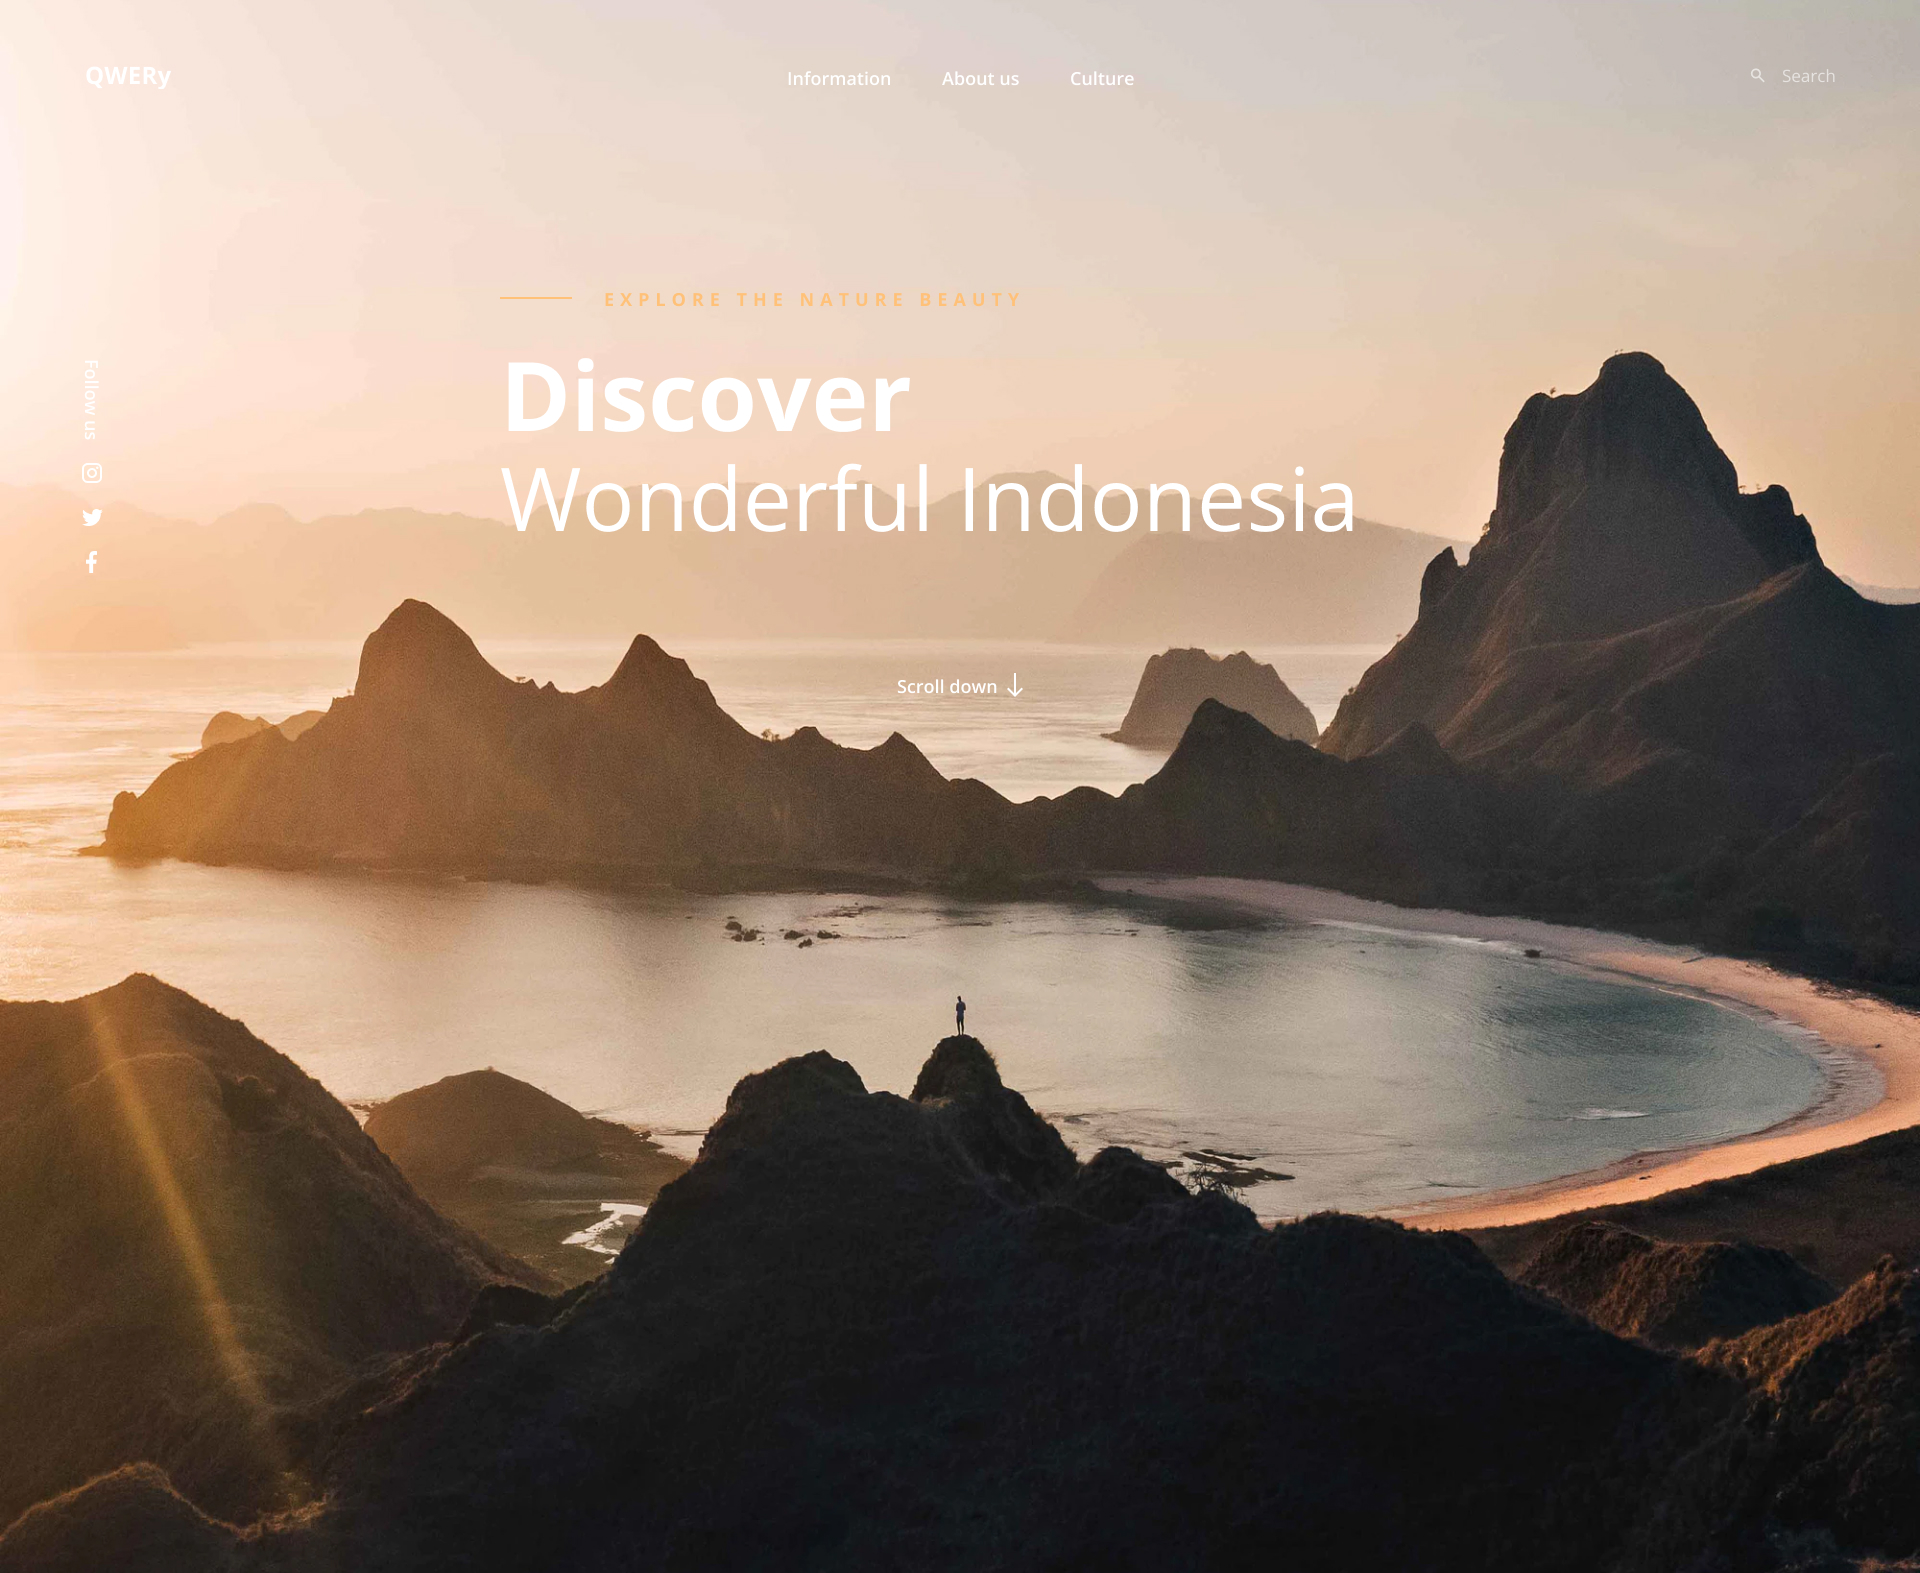
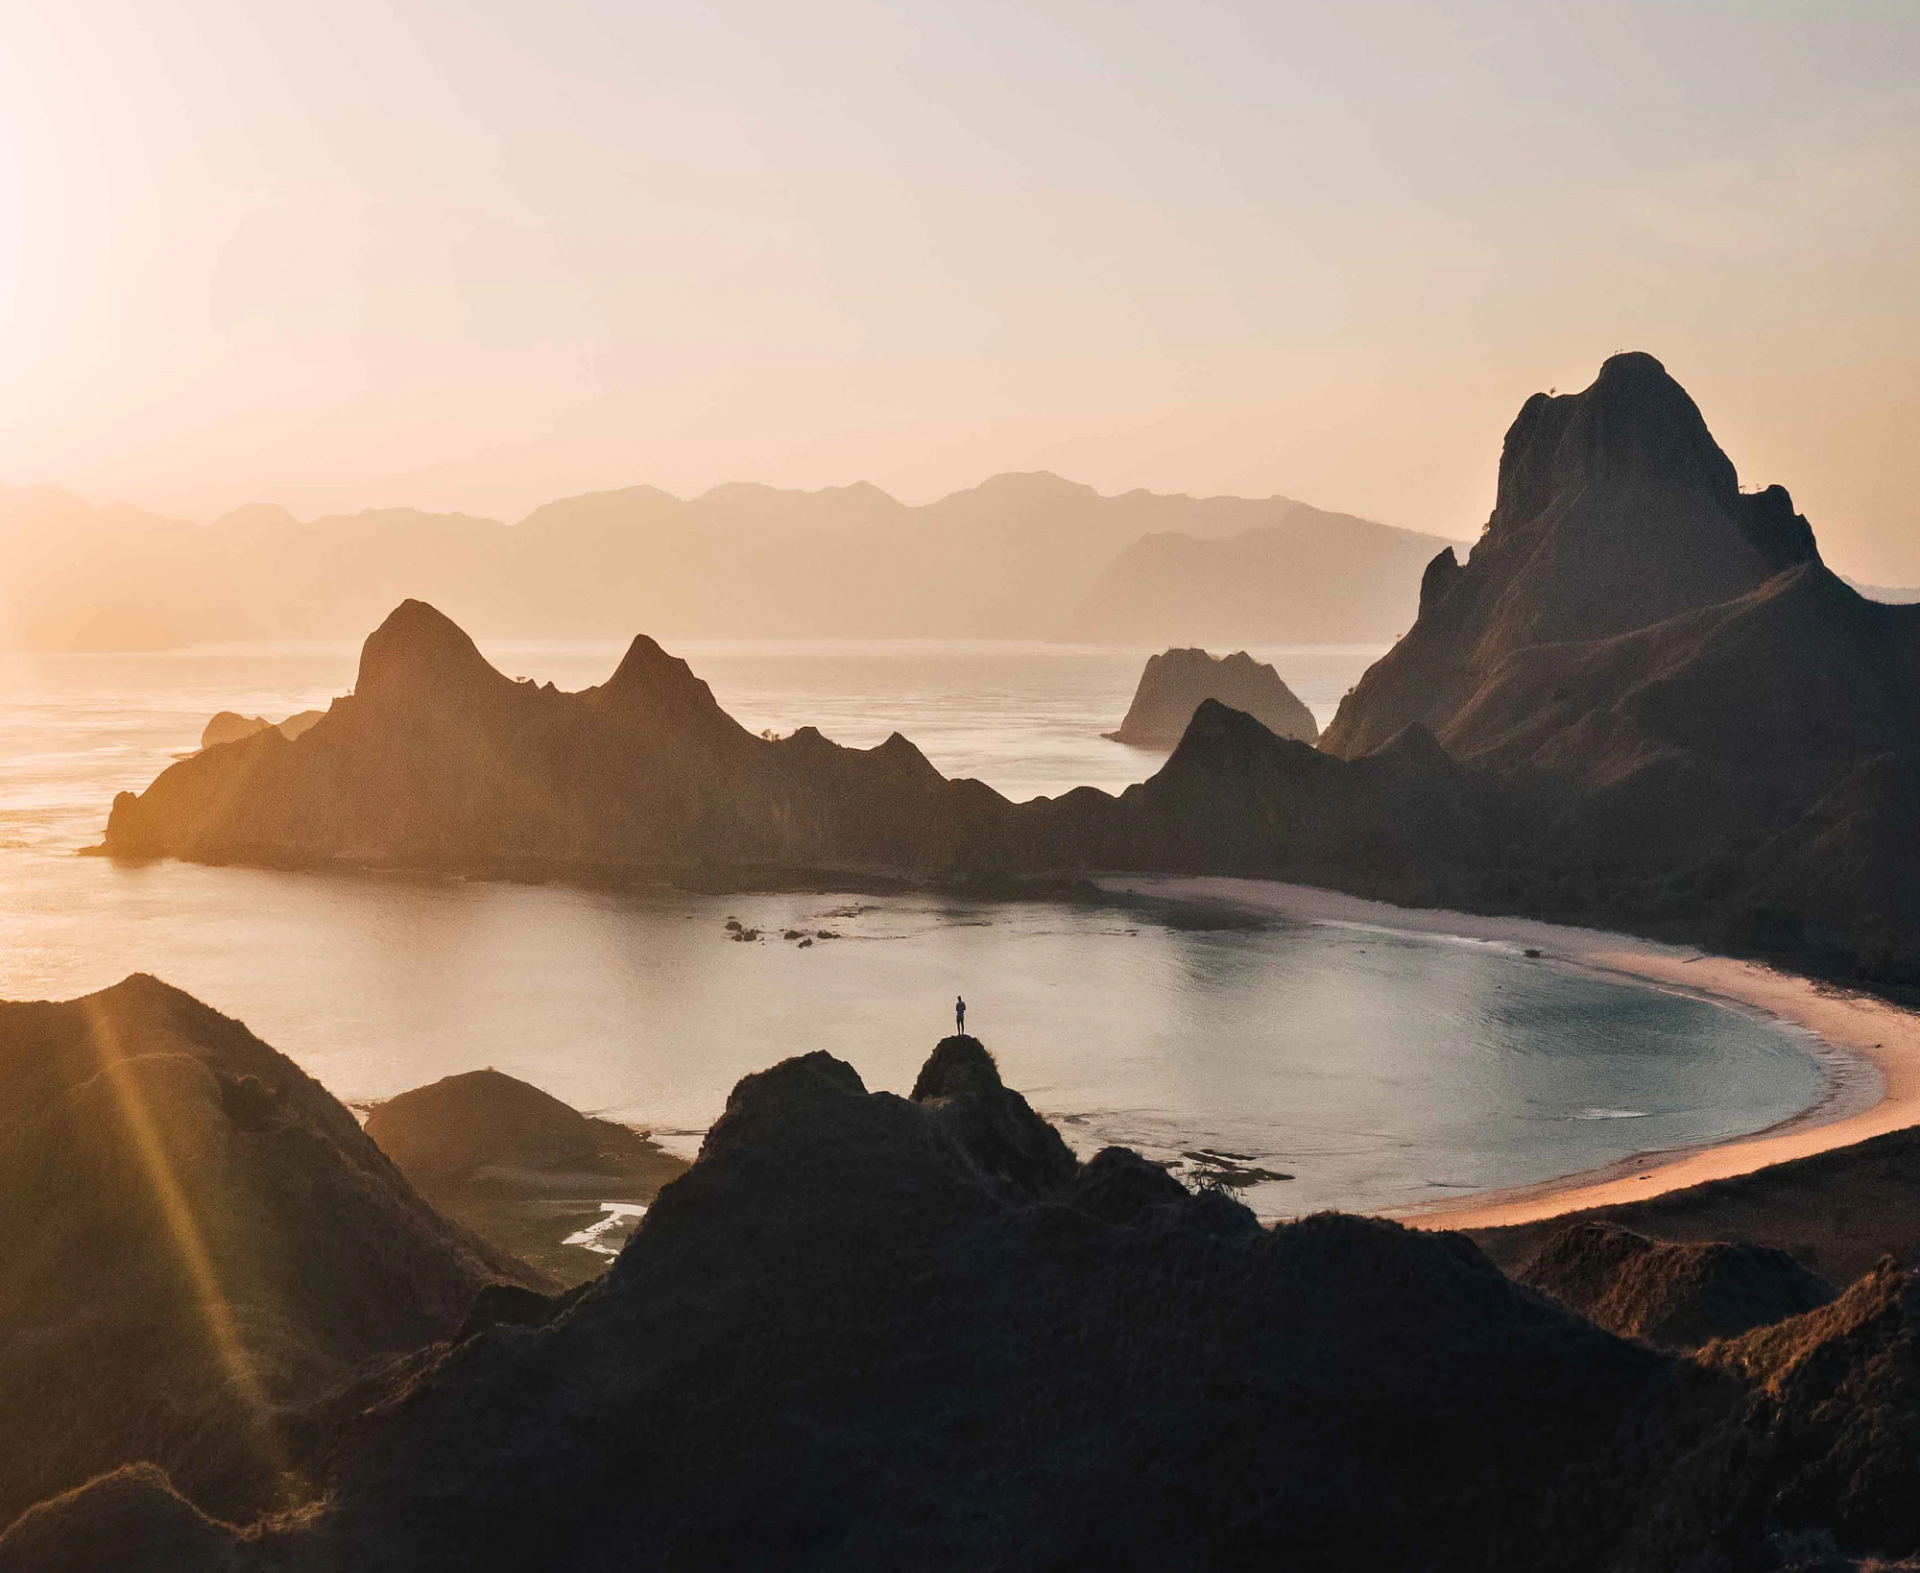
images-fixed

Changed region(s): [[0.25, 0.2181, 0.7188, 0.3427], [0.0625, 0.0312, 0.0938, 0.0623]]

diff --git a/index.html b/index.html
@@ -9,7 +9,7 @@
     <link rel="preconnect" href="https://fonts.googleapis.com" />
     <link rel="preconnect" href="https://fonts.gstatic.com" crossorigin />
     <link
-      href="https://fonts.googleapis.com/css2?family=Open+Sans:wght@300..800&display=swap"
+      href="https://fonts.googleapis.com/css2?family=DM+Sans:opsz@9..40&family=Open+Sans:wght@300..800&display=swap"
       rel="stylesheet"
     />
 
@@ -121,7 +121,94 @@
           </div>
         </section>
       </main>
-      <footer></footer>
+
+      <!-----  FOOTER  ----->
+      <footer class="footer">
+        <div class="container">
+          <div class="footer-upper">
+            <a class="footer-logo" href="">QWERy</a>
+            <div class="footer-contact">
+              <p class="footer-contact-text">Ready to explore?</p>
+              <button class="footer-contact-btn" type="button">
+                Get started
+              </button>
+            </div>
+          </div>
+          <div class="footer-upper-middle">
+            <div class="footer-sbscr-wrap">
+              <p class="footer-sbscr-text">
+                Let's go on vacation, Make your day
+              </p>
+              <form class="footer-sbscr-form">
+                <input
+                  class="footer-email-input"
+                  type="email"
+                  name="user-email"
+                  autocomplete="on"
+                />
+                <button class="footer-submit-btn" type="submit"></button>
+              </form>
+            </div>
+            <div class="footer-list-wrap">
+              <p class="footer-list-title">Services</p>
+              <ul class="footer-list">
+                <li class="footer-list-item"><a href="">Email Marketing</a></li>
+                <li class="footer-list-item"><a href="">Campaigns</a></li>
+                <li class="footer-list-item"><a href="">Branding</a></li>
+                <li class="footer-list-item"><a href="">Offline</a></li>
+              </ul>
+            </div>
+            <div class="footer-list-wrap">
+              <p class="footer-list-title">About</p>
+              <ul class="footer-list">
+                <li class="footer-list-item"><a href="">Our Story</a></li>
+                <li class="footer-list-item"><a href="">Benefits</a></li>
+                <li class="footer-list-item"><a href="">Team</a></li>
+                <li class="footer-list-item"><a href="">Careers</a></li>
+              </ul>
+            </div>
+            <div class="footer-list-wrap">
+              <p class="footer-list-title">Help</p>
+              <ul class="footer-list">
+                <li class="footer-list-item"><a href="">FAQs</a></li>
+                <li class="footer-list-item"><a href="">Contact Us</a></li>
+              </ul>
+            </div>
+          </div>
+          <div class="footer-down-middle">
+            <ul class="footer-policies-list">
+              <li class="footer-policy-item">
+                <a href="">Terms & Conditions</a>
+              </li>
+              <li class="footer-policy-item"><a href="">Privacy Policy</a></li>
+            </ul>
+            <ul class="footer-soc-list">
+              <li class="footer-soc-item">
+                <a class="footer-soc-link" href="">
+                  <svg class="footer-soc-icon">
+                    <use></use>
+                  </svg>
+                </a>
+              </li>
+              <li class="footer-soc-item">
+                <a class="footer-soc-link" href="">
+                  <svg class="footer-soc-icon">
+                    <use></use>
+                  </svg>
+                </a>
+              </li>
+              <li class="footer-soc-item">
+                <a class="footer-soc-link" href="">
+                  <svg class="footer-soc-icon">
+                    <use></use>
+                  </svg>
+                </a>
+              </li>
+            </ul>
+          </div>
+          <p class="copyright-text">Copyright 2021 QWERy</p>
+        </div>
+      </footer>
     </div>
   </body>
 </html>

diff --git a/styles.css b/styles.css
@@ -73,6 +73,17 @@ button {
   margin: 0 auto;
 }
 
+.body-wrap {
+  background-image: linear-gradient(
+      330deg,
+      rgba(0, 0, 0, 0) 31.06%,
+      #000 108.93%
+    ),
+    linear-gradient(0deg, #000 0%, rgba(0, 0, 0, 0) 77.78%),
+    url(/images/hero-bg.jpg);
+  background-repeat: no-repeat;
+}
+
 /* -----  HEADER  ----- */
 .header {
   padding-top: 64px;
@@ -202,7 +213,6 @@ button {
 
 .section-title {
   font-size: 64px;
-  font-weight: 700;
   width: 555px;
 }
 .enjoyed-text {
@@ -290,4 +300,154 @@ button {
 }
 
 .culture-img {
+}
+
+/* -----  FOOTER  ----- */
+.footer {
+  padding-top: 125px;
+  padding-bottom: 118px;
+}
+
+.footer-upper {
+  display: flex;
+  justify-content: space-between;
+  padding-bottom: 48px;
+  border-bottom: 1px solid rgba(255, 255, 255, 0.3);
+}
+
+.footer-logo {
+  font-size: 48px;
+  font-weight: 700;
+  letter-spacing: 0.01em;
+  text-transform: capitalize;
+}
+
+.footer-contact {
+  display: flex;
+  align-items: center;
+  gap: 56px;
+}
+
+.footer-contact-text {
+  font-family: "DM Sans", serif;
+  font-size: 22px;
+  letter-spacing: -0.01em;
+}
+
+.footer-contact-btn {
+  color: #000;
+  font-family: "DM Sans", serif;
+  font-size: 17px;
+  font-weight: 700;
+  border-radius: 8px;
+  background: #ffa343;
+  padding: 24px 70px;
+}
+
+.footer-upper-middle {
+  padding-top: 54px;
+  padding-bottom: 50px;
+  display: flex;
+  justify-content: space-between;
+  align-items: baseline;
+}
+
+.footer-sbscr-wrap {
+  margin-right: 126px;
+  width: 400px;
+}
+
+.footer-sbscr-text {
+  font-size: 36px;
+  font-weight: 700;
+  letter-spacing: -0.01em;
+  width: 361px;
+  margin-bottom: 50px;
+}
+
+.footer-sbscr-form {
+  display: flex;
+  border-bottom: 1.4px solid rgba(255, 255, 255, 0.3);
+}
+
+.footer-email-input {
+  flex-grow: 1;
+  height: 70px;
+  background-color: transparent;
+  border: none;
+  border-bottom: 1.4px solid rgba(255, 255, 255, 0.3);
+}
+
+.footer-submit-btn {
+  border-top-left-radius: 8px;
+  border-top-right-radius: 8px;
+  background: #ffa343;
+  width: 69px;
+  height: 69px;
+  display: inline-flex;
+}
+
+.footer-list-wrap {
+  padding: 34px 0px;
+  display: flex;
+  flex-direction: column;
+  gap: 45px;
+}
+
+.footer-list-title {
+  color: #ffd1a0;
+  font-size: 20px;
+  font-weight: 700;
+  line-height: 0;
+  letter-spacing: -0.01em;
+}
+
+.footer-list {
+  display: inline-flex;
+  flex-direction: column;
+  row-gap: 45px;
+}
+
+.footer-list-item {
+  font-size: 19px;
+  font-weight: 400;
+  line-height: 0;
+  letter-spacing: -0.01em;
+}
+
+.footer-down-middle {
+  padding-top: 50px;
+  padding-bottom: 128px;
+  justify-content: space-between;
+  align-items: center;
+}
+
+.footer-policies-list {
+  display: inline-flex;
+  gap: 50px;
+}
+
+.footer-policy-item {
+  font-family: "DM Sans", serif;
+  font-size: 15px;
+  font-weight: 400;
+  letter-spacing: -0.01em;
+}
+
+.footer-soc-list {
+  display: flex;
+  gap: 40px;
+}
+.footer-soc-item {
+}
+.footer-soc-link {
+}
+.footer-soc-icon {
+}
+.copyright-text {
+  text-align: center;
+  font-size: 18px;
+  font-weight: 600;
+  line-height: 1.78;
+  opacity: 0.5;
 }
